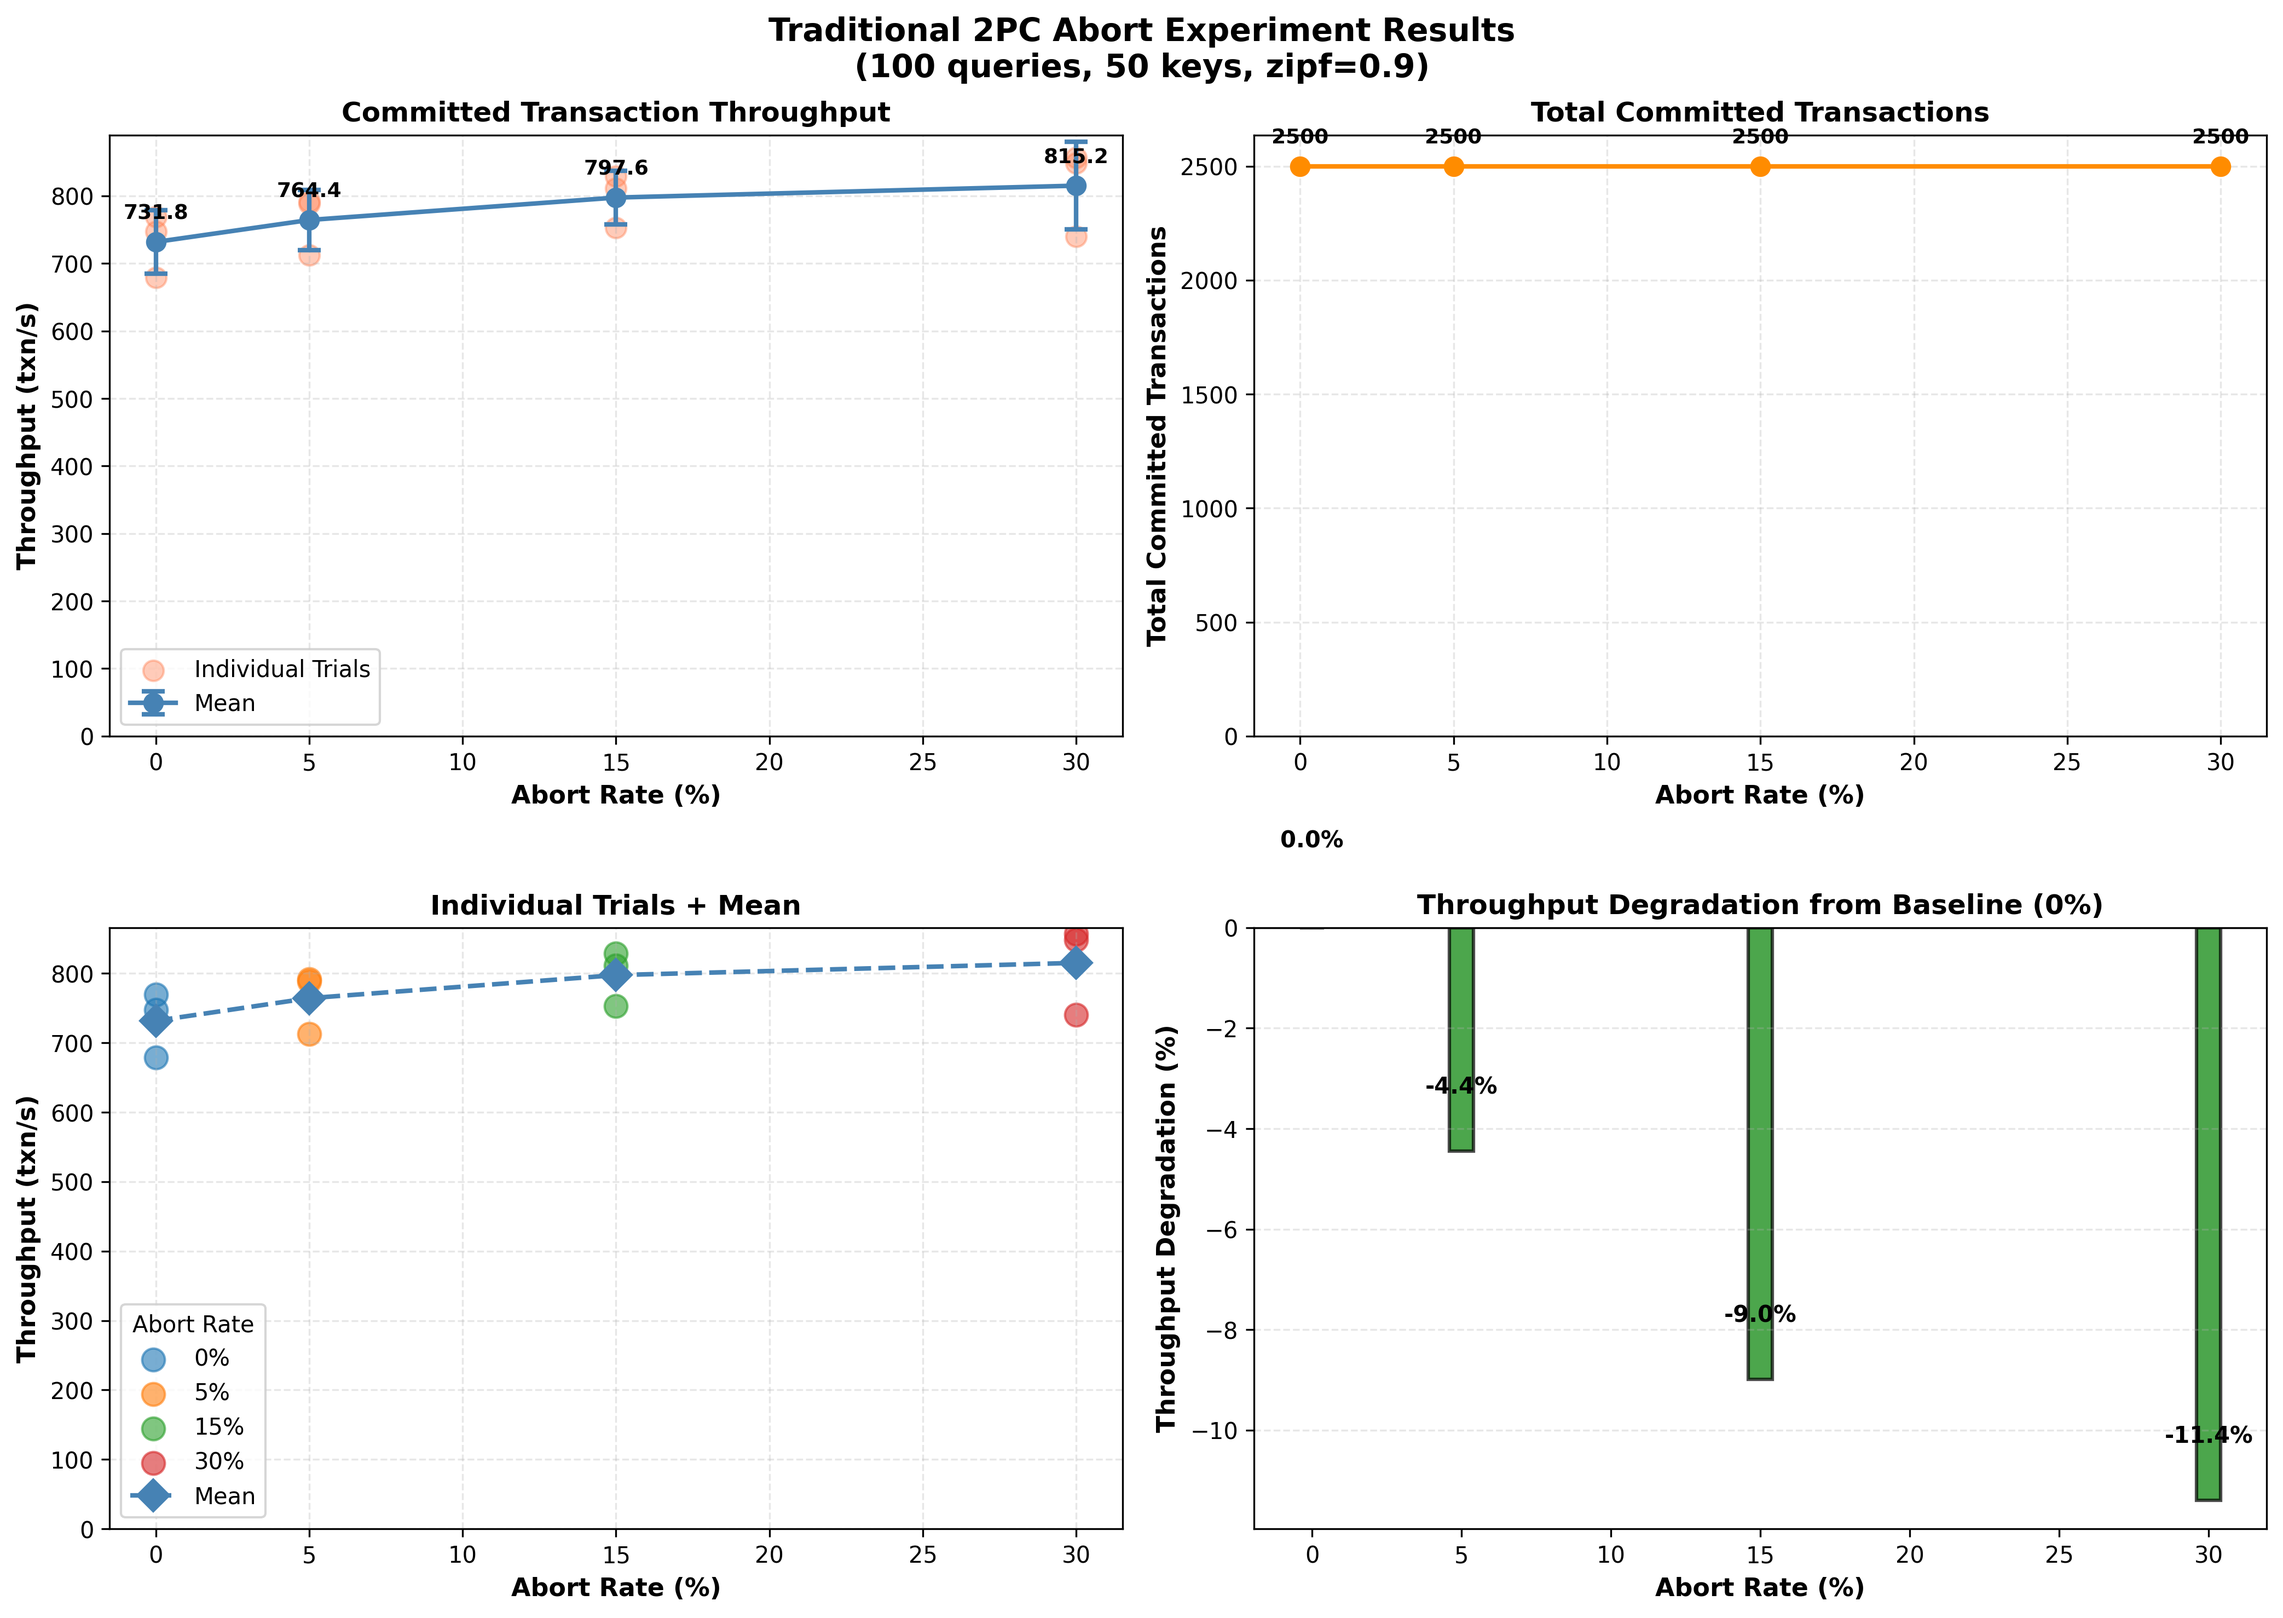
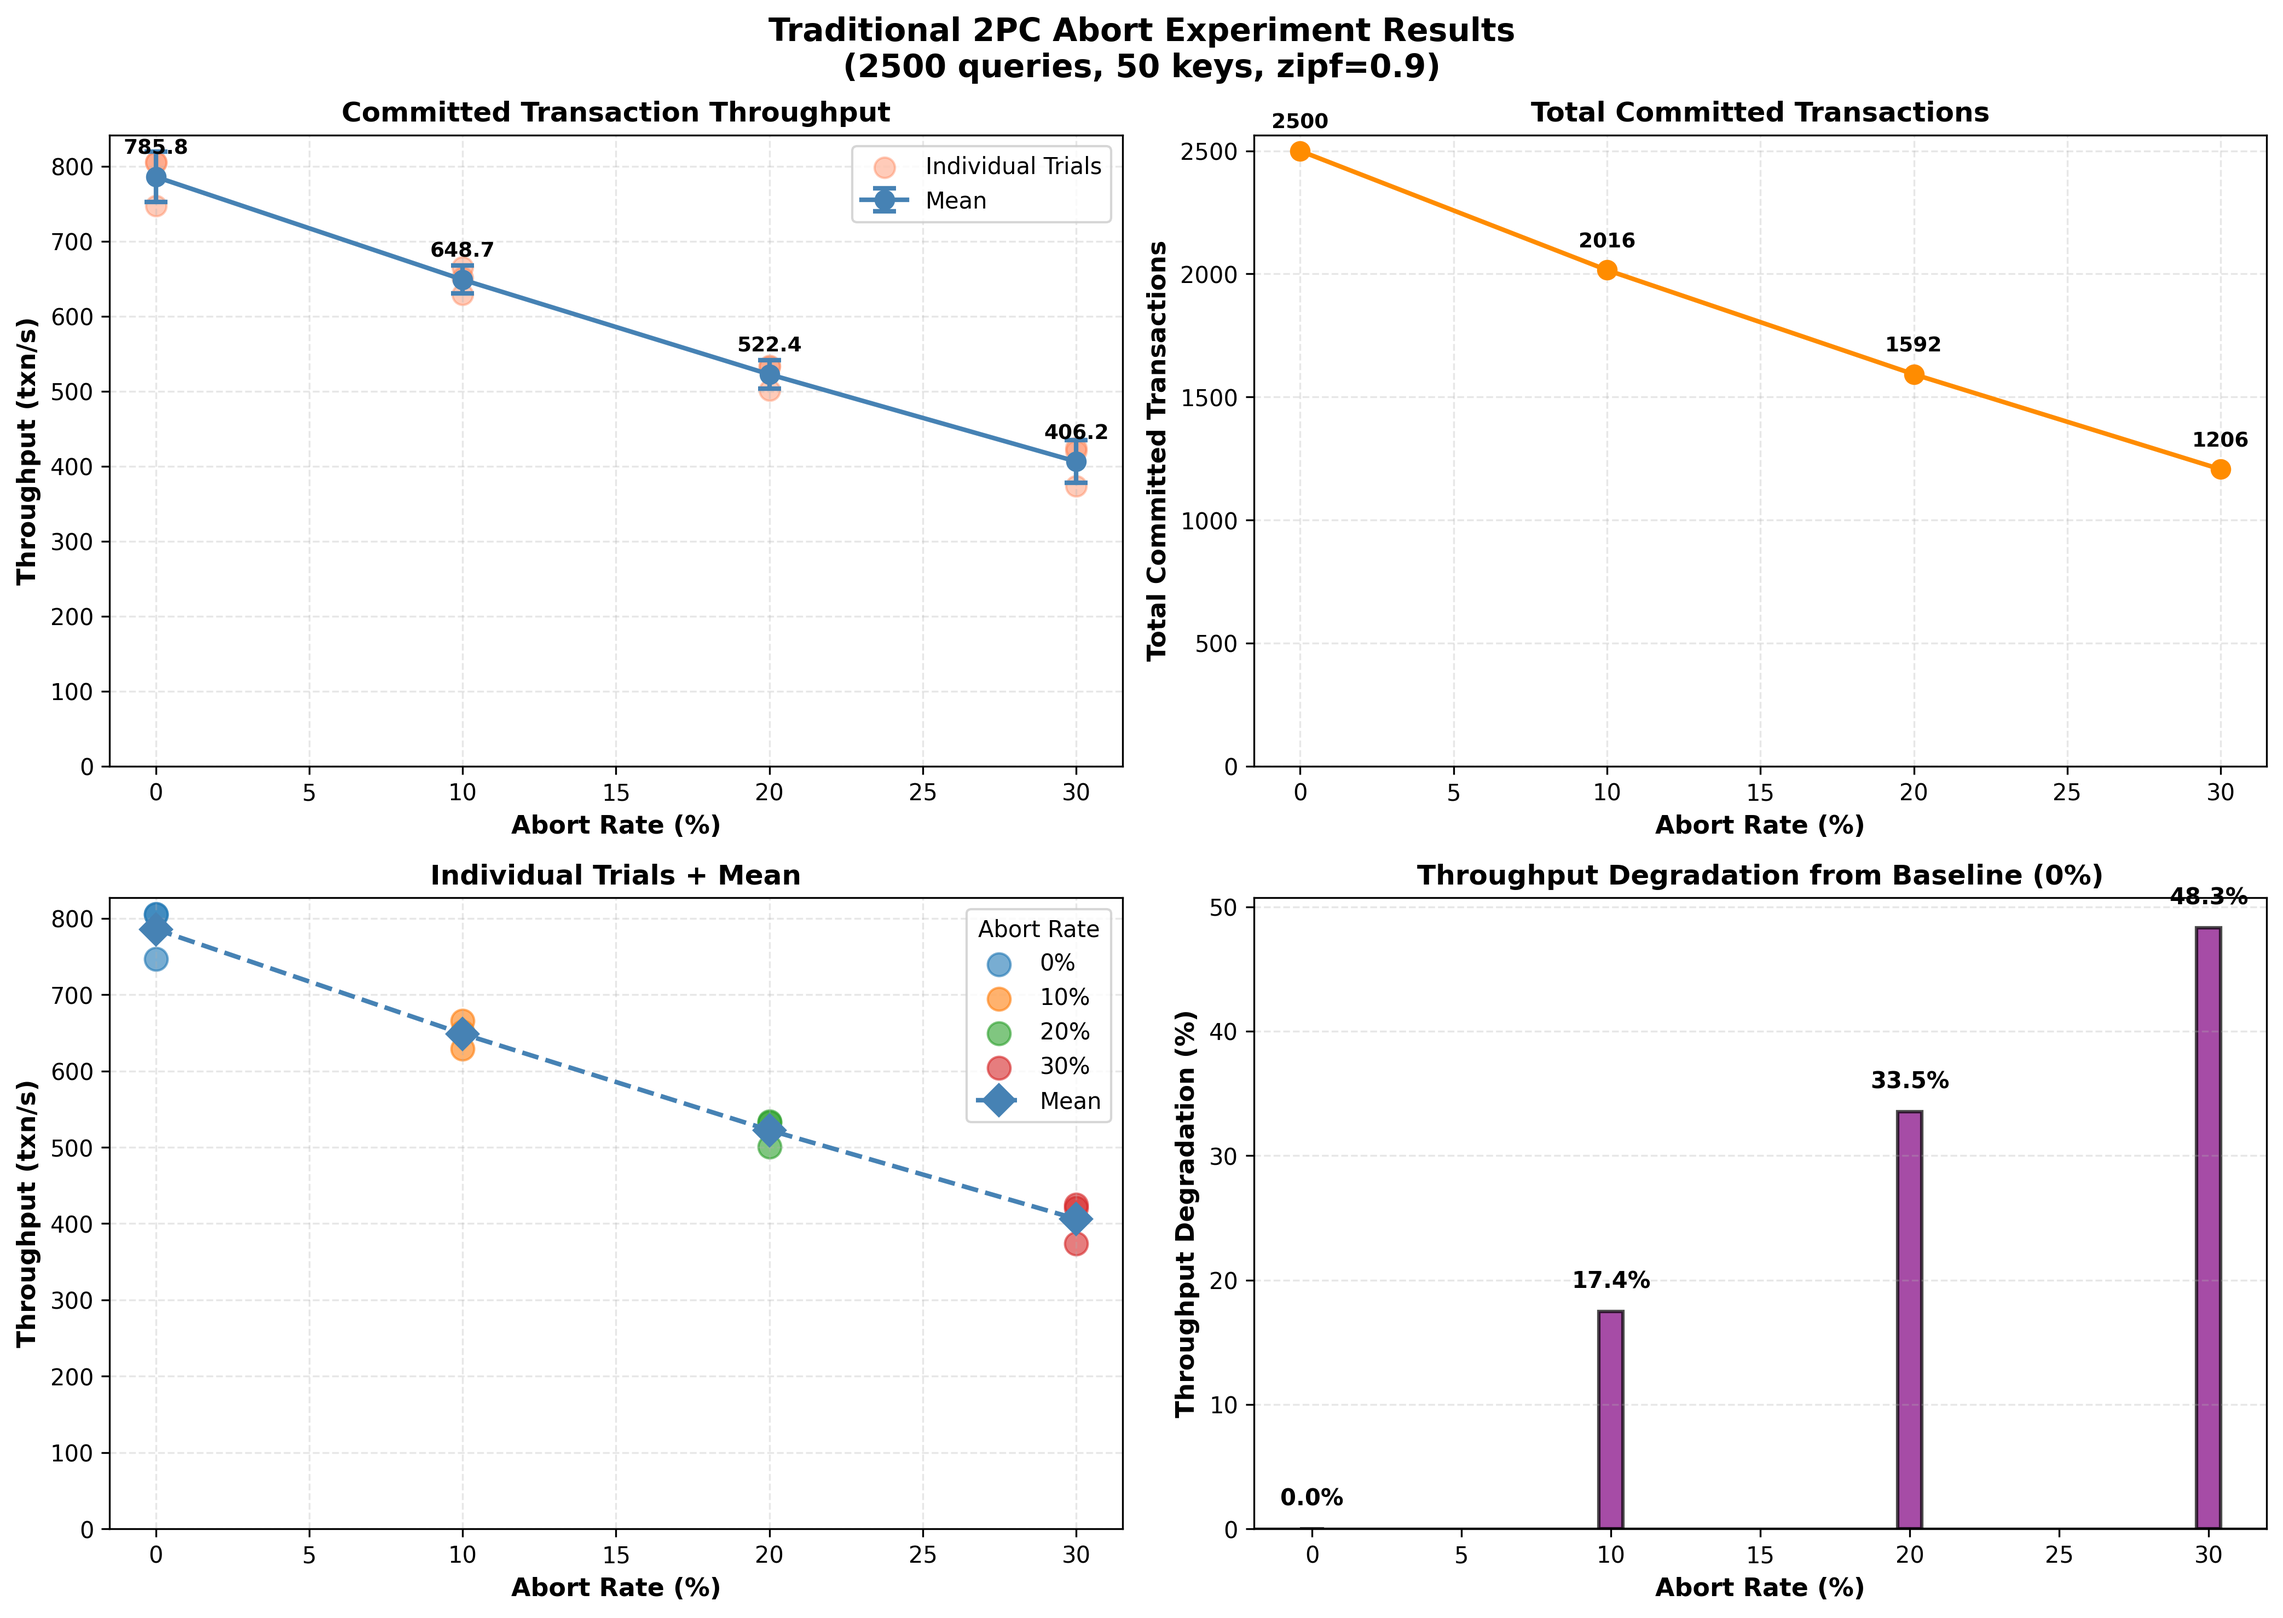
Fix: handle empty latencies to prevent divide-by-zero panic
When cascading aborts cause all transactions to fail, the latencies
vector is empty. This caused a panic when calculating average latency
and percentiles. Now we check for empty latencies and return zero
durations in that case.

diff --git a/workload-generator/src/workload_generator.rs b/workload-generator/src/workload_generator.rs
@@ -372,16 +372,23 @@ impl WorkloadGenerator {
         let total_transactions = metrics.completed_transactions;
 
         // Calculate statistics
-        let avg_latency: Duration =
-            metrics.latencies.iter().sum::<Duration>() / metrics.latencies.len() as u32;
-        let throughput = total_transactions as f64 / total_duration.as_secs_f64();
+        let (avg_latency, p50_latency, p95_latency, p99_latency) = if metrics.latencies.is_empty() {
+            // Handle case where no transactions completed (e.g., all aborted due to cascading aborts)
+            (Duration::from_secs(0), Duration::from_secs(0), Duration::from_secs(0), Duration::from_secs(0))
+        } else {
+            let avg_latency: Duration =
+                metrics.latencies.iter().sum::<Duration>() / metrics.latencies.len() as u32;
 
-        // Sort latencies for percentile calculation
-        let mut sorted_latencies = metrics.latencies.clone();
-        sorted_latencies.sort();
-        let p99_latency = sorted_latencies[(sorted_latencies.len() as f64 * 0.99) as usize];
-        let p95_latency = sorted_latencies[(sorted_latencies.len() as f64 * 0.95) as usize];
-        let p50_latency = sorted_latencies[(sorted_latencies.len() as f64 * 0.50) as usize];
+            // Sort latencies for percentile calculation
+            let mut sorted_latencies = metrics.latencies.clone();
+            sorted_latencies.sort();
+            let p99_latency = sorted_latencies[(sorted_latencies.len() as f64 * 0.99) as usize];
+            let p95_latency = sorted_latencies[(sorted_latencies.len() as f64 * 0.95) as usize];
+            let p50_latency = sorted_latencies[(sorted_latencies.len() as f64 * 0.50) as usize];
+
+            (avg_latency, p50_latency, p95_latency, p99_latency)
+        };
+        let throughput = total_transactions as f64 / total_duration.as_secs_f64();
 
         info!("Workload Complete - Performance Metrics:");
         info!("Throughput: {:.2} transactions/second", throughput);
